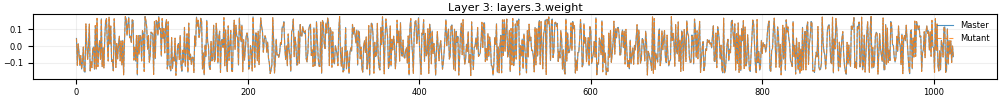
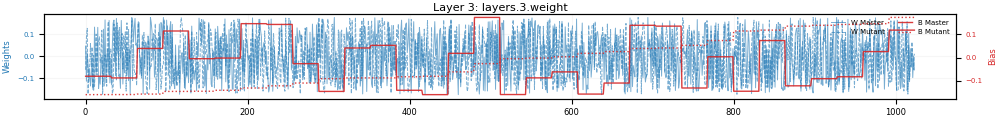
biases

diff --git a/publish.py b/publish.py
@@ -1,6 +1,6 @@
-"""Publish results by plotting weight comparisons.
+"""Publish results by plotting weight and bias comparisons.
 
-Caveman style: Me load weights. Me draw small graphs for all layers. Me write clean MD.
+Caveman style: Me load weights. Me load bias. Me repeat bias to match weights. Me draw two-axis graph.
 """
 
 import argparse
@@ -20,18 +20,48 @@ def publish(master_path, mutant_path):
     png_paths = []
     
     for i, key in enumerate(weight_keys):
-        # 1. Get weights and flatten
-        w_master = master_state[key].flatten().numpy()
-        w_mutant = mutant_state[key].flatten().numpy()
+        bias_key = key.replace("weight", "bias")
+        
+        # 1. Get weights and biases
+        w_master = master_state[key]
+        w_mutant = mutant_state[key]
+        b_master = master_state[bias_key]
+        b_mutant = mutant_state[bias_key]
 
-        # 2. Draw small graph
-        plt.figure(figsize=(10, 1.0)) # Further reduced height
-        plt.plot(w_master, label="Master", alpha=0.8, linewidth=0.8)
-        plt.plot(w_mutant, label="Mutant", alpha=0.8, linewidth=0.8, linestyle="--")
+        # 2. Align bias with weights (repeat each bias N times where N is input_dim)
+        # Weights shape: (out_features, in_features)
+        n_inputs = w_master.shape[1]
+        b_master_stepped = b_master.repeat_interleave(n_inputs).numpy()
+        b_mutant_stepped = b_mutant.repeat_interleave(n_inputs).numpy()
+        
+        w_master_flat = w_master.flatten().numpy()
+        w_mutant_flat = w_mutant.flatten().numpy()
+
+        # 3. Draw dual-axis graph
+        fig, ax1 = plt.subplots(figsize=(10, 1.2))
+        
+        # Weights on Primary Axis
+        ax1.plot(w_master_flat, label="W Master", alpha=0.6, linewidth=0.7, color='tab:blue')
+        ax1.plot(w_mutant_flat, label="W Mutant", alpha=0.6, linewidth=0.7, color='tab:blue', linestyle="--")
+        ax1.set_ylabel("Weights", fontsize=6, color='tab:blue')
+        ax1.tick_params(axis='y', labelcolor='tab:blue', labelsize=5)
+        ax1.tick_params(axis='x', labelsize=6)
+        
+        # Biases on Secondary Axis
+        ax2 = ax1.twinx()
+        ax2.plot(b_master_stepped, label="B Master", alpha=0.9, linewidth=1.0, color='tab:red')
+        ax2.plot(b_mutant_stepped, label="B Mutant", alpha=0.9, linewidth=1.0, color='tab:red', linestyle=":")
+        ax2.set_ylabel("Bias", fontsize=6, color='tab:red')
+        ax2.tick_params(axis='y', labelcolor='tab:red', labelsize=5)
+        
         plt.title(f"Layer {i}: {key}", fontsize=8, pad=2)
-        plt.legend(fontsize=6, loc='upper right', frameon=False)
-        plt.tick_params(axis='both', which='major', labelsize=6)
-        plt.grid(True, alpha=0.2)
+        
+        # Combined Legend
+        lines1, labels1 = ax1.get_legend_handles_labels()
+        lines2, labels2 = ax2.get_legend_handles_labels()
+        ax1.legend(lines1 + lines2, labels1 + labels2, fontsize=5, loc='upper right', frameon=False, ncol=2)
+        
+        ax1.grid(True, alpha=0.1)
         plt.tight_layout(pad=0.2)
         
         png_path = f"results_layer_{i}.png"
@@ -40,21 +70,20 @@ def publish(master_path, mutant_path):
         png_paths.append(png_path)
         print(f"Saved {png_path}")
 
-    # 3. Write MD - minimal text
+    # 4. Write MD - minimal text
     md_path = "results.md"
     with open(md_path, "w") as f:
         f.write("# Results\n\n")
-        f.write(f"Compare `{master_path}` vs `{mutant_path}`\n\n")
+        f.write(f"Compare `{master_path}` vs `{mutant_path}` (Sorted by Bias)\n\n")
         for png in png_paths:
             f.write(f"![{png}]({png})\n\n")
     
     print(f"Updated {md_path}")
 
 def main():
-    parser = argparse.ArgumentParser(description="Publish all weight graphs")
+    parser = argparse.ArgumentParser(description="Publish all weight and bias graphs")
     parser.add_argument("--master", default="master.pt", help="Master weights")
     parser.add_argument("--mutant", required=True, help="Mutant weights")
-    # Removed --layer since we do all now
     args = parser.parse_args()
 
     publish(args.master, args.mutant)

diff --git a/permute_model.py b/permute_model.py
@@ -13,6 +13,26 @@ import torch
 from model import TinyMLP
 
 
+def get_swap_permutation(hidden_dim: int, seed: int) -> torch.Tensor:
+    """Generate a permutation that swaps a small percentage of neurons."""
+    torch.manual_seed(seed)
+    perm = torch.arange(hidden_dim)
+    num_swaps = int(hidden_dim * 0.05)
+    swap_indices = torch.randperm(hidden_dim)[: num_swaps * 2]
+    swap_indices = swap_indices.view(-1, 2)
+
+    for i, j in swap_indices:
+        i, j = int(i), int(j)
+        perm[i], perm[j] = perm[j], perm[i]
+    return perm
+
+
+def get_sort_permutation(biases: torch.Tensor) -> torch.Tensor:
+    """Generate a permutation that sorts neurons by their bias values."""
+    # Sort by the bias of each neuron
+    return torch.argsort(biases)
+
+
 def permute_weights(
     source_path: str = "master.pt",
     layer: int = 0,
@@ -39,16 +59,8 @@ def permute_weights(
     # Determine hidden dimension from state dict
     hidden_dim = state[f"layers.{layer}.weight"].shape[0]
 
-    # Generate custom swap permutation
-    torch.manual_seed(seed)
-    perm = torch.arange(hidden_dim)
-    num_swaps = int(hidden_dim * 0.05)
-    swap_indices = torch.randperm(hidden_dim)[:num_swaps * 2]
-    swap_indices = swap_indices.view(-1, 2)
-
-    for i, j in swap_indices:
-        i, j = int(i), int(j)
-        perm[i], perm[j] = perm[j], perm[i]
+    # Use the bias-sorting strategy
+    perm = get_sort_permutation(state[f"layers.{layer}.bias"])
 
     # Apply permutation to layer weights (rows)
     state[f"layers.{layer}.weight"] = state[f"layers.{layer}.weight"][perm]
@@ -69,6 +81,49 @@ def permute_weights(
     return target_path
 
 
+def permute_all_layers(
+    source_path: str = "master.pt",
+    seed: int = 42,
+) -> str:
+    """Permute all hidden layers in the model sequentially.
+
+    Loads the model and applies bias-sorting permutation to every
+    hidden layer (0-6), maintaining output equivalence.
+
+    Args:
+        source_path: Path to source model weights.
+        seed: Random seed (not used for sorting, but kept for signature consistency).
+
+    Returns:
+        Path to the saved fully-permuted weights file.
+    """
+    state = torch.load(source_path, weights_only=True)
+    
+    # Get all weight keys to determine layer count
+    weight_keys = sorted([k for k in state.keys() if "weight" in k])
+    num_hidden = len(weight_keys) - 1 # All except the last layer
+
+    print(f"Permuting layers 1 through {num_hidden-1}...")
+
+    for layer in range(1, num_hidden):
+        # 1. Get sorting permutation based on current biases
+        perm = get_sort_permutation(state[f"layers.{layer}.bias"])
+        
+        # 2. Apply to current layer (rows and bias)
+        state[f"layers.{layer}.weight"] = state[f"layers.{layer}.weight"][perm]
+        state[f"layers.{layer}.bias"] = state[f"layers.{layer}.bias"][perm]
+        
+        # 3. Apply to next layer (columns)
+        next_layer = layer + 1
+        state[f"layers.{next_layer}.weight"] = state[f"layers.{next_layer}.weight"][:, perm]
+
+    target_path = "modified_all.pt"
+    torch.save(state, target_path)
+    print(f"Saved {target_path}")
+
+    return target_path
+
+
 def main() -> None:
     """Main entry point for weight permutation."""
     parser = argparse.ArgumentParser(description="Permute model weights")
@@ -77,7 +132,14 @@ def main() -> None:
         "--layer", type=int, default=0, help="Hidden layer index to permute (0-6)"
     )
     parser.add_argument("--seed", type=int, default=42, help="Random seed for permutation")
+    parser.add_argument("--all", action="store_true", help="Permute all hidden layers")
     args = parser.parse_args()
+
+    if args.all:
+        print("Applying permutation to ALL layers...")
+        path = permute_all_layers(args.source, args.seed)
+        print(f"Done: {path}")
+        return
 
     if args.layer < 0 or args.layer > 6:
         print("Error: Layer must be between 0 and 6")

diff --git a/results.md b/results.md
@@ -1,6 +1,6 @@
 # Results
 
-Compare `master.pt` vs `modified_layer_0.pt`
+Compare `master.pt` vs `modified_all.pt` (Sorted by Bias)
 
 ![results_layer_0.png](results_layer_0.png)
 
